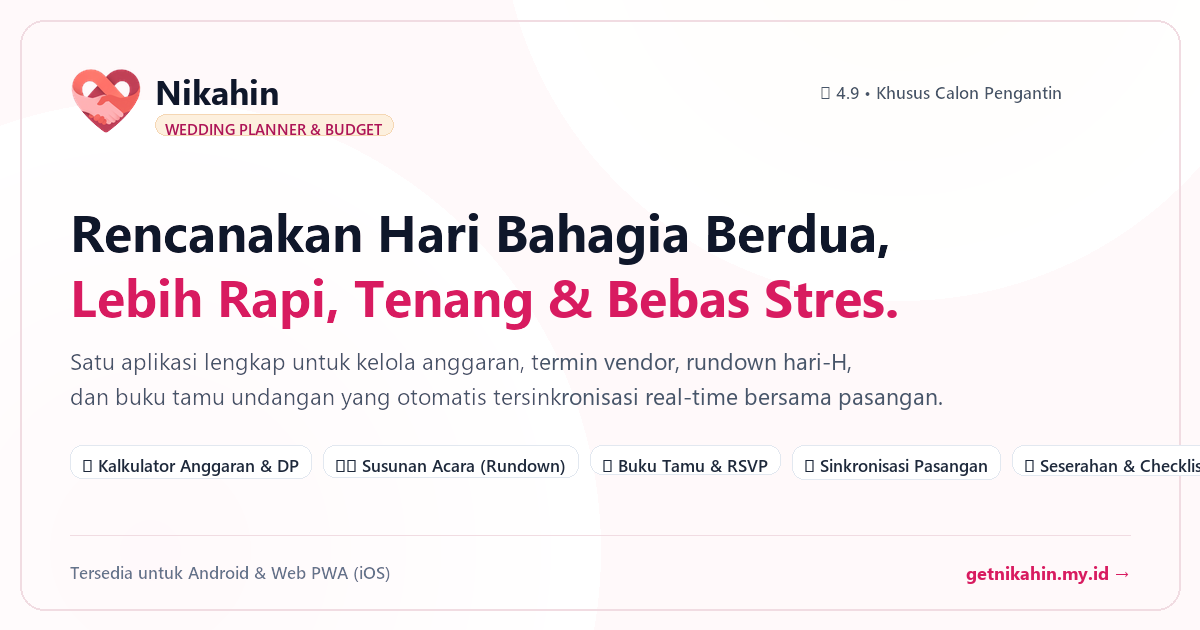
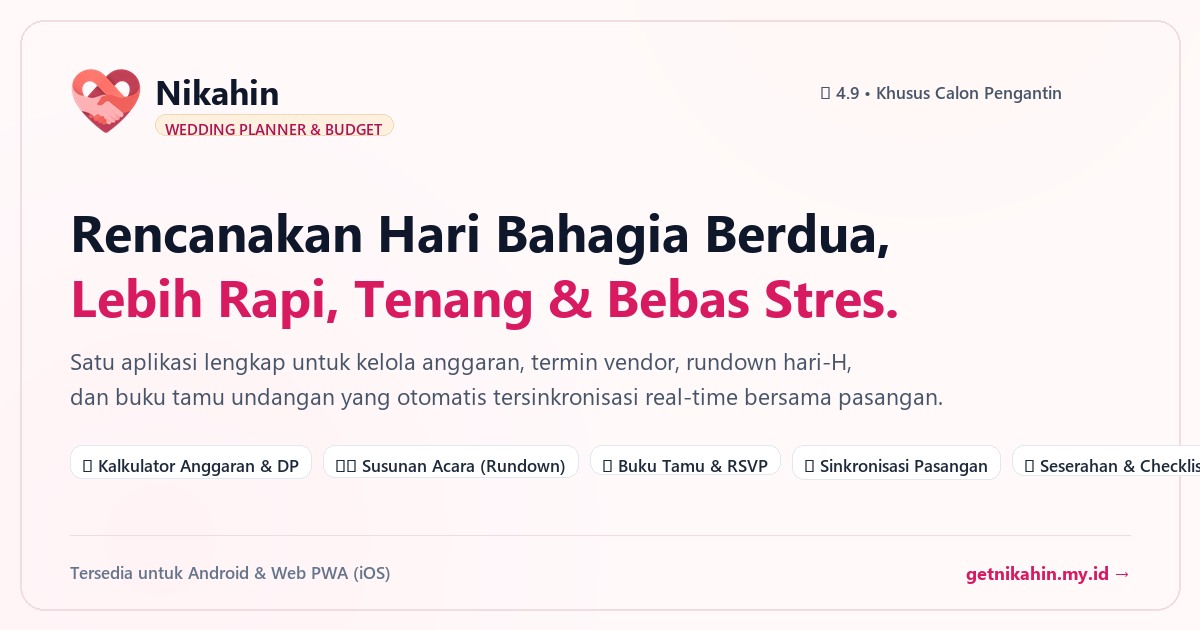
fix(landing): use solid RGB background for og-image and harmonize modal text alignment

diff --git a/landing-page/components/DesktopQrModal.tsx b/landing-page/components/DesktopQrModal.tsx
@@ -16,7 +16,7 @@ export default function DesktopQrModal({ isOpen, onClose, targetUrl }: DesktopQr
   return (
     <div className="fixed inset-0 z-50 flex items-center justify-center p-4 bg-slate-900/60 backdrop-blur-sm animate-in fade-in duration-200">
       <div
-        className="relative w-full max-w-sm bg-white rounded-3xl p-6 sm:p-7 shadow-2xl border border-slate-100 text-center"
+        className="relative w-full max-w-sm bg-white rounded-3xl p-6 sm:p-7 shadow-2xl border border-slate-100"
         onClick={(e) => e.stopPropagation()}
       >
         {/* Close Button */}
@@ -29,34 +29,37 @@ export default function DesktopQrModal({ isOpen, onClose, targetUrl }: DesktopQr
         </button>
 
         {/* Modal Header */}
-        <div className="w-12 h-12 rounded-2xl bg-[#fdf0de] mx-auto flex items-center justify-center text-[#d81b60] mb-4">
-          <QrCode className="w-6 h-6" />
+        <div className="flex items-center gap-3.5 mb-5 pr-8">
+          <div className="w-11 h-11 rounded-2xl bg-[#fdf0de] flex items-center justify-center text-[#d81b60] shrink-0">
+            <QrCode className="w-6 h-6" />
+          </div>
+          <div>
+            <h3 className="font-extrabold text-lg text-slate-900 leading-snug">
+              Buka di Ponselmu
+            </h3>
+            <p className="text-xs text-slate-500 font-medium mt-0.5 text-justify">
+              Arahkan kamera ponsel ke kode QR untuk membuka aplikasi langsung di HP kamu.
+            </p>
+          </div>
         </div>
 
-        <h3 className="font-extrabold text-lg text-slate-900 mb-1">
-          Buka di Ponselmu
-        </h3>
-        <p className="text-xs text-slate-500 font-medium mb-6">
-          Arahkan kamera ponsel ke kode QR untuk membuka aplikasi langsung di HP kamu.
-        </p>
-
         {/* QR Code Frame */}
-        <div className="p-4 bg-white rounded-2xl border-2 border-dashed border-[#ffd9e2] inline-block shadow-inner mb-5">
-          <QRCodeSVG
-            value={targetUrl}
-            size={180}
-            level="M"
-            includeMargin={true}
-            fgColor="#0f172a"
-          />
+        <div className="flex justify-center mb-5">
+          <div className="p-4 bg-white rounded-2xl border-2 border-dashed border-[#ffd9e2] shadow-inner">
+            <QRCodeSVG
+              value={targetUrl}
+              size={180}
+              level="M"
+              includeMargin={true}
+              fgColor="#0f172a"
+            />
+          </div>
         </div>
 
         {/* Device Notes */}
-        <div className="flex items-center justify-center gap-4 text-xs font-semibold text-slate-600">
-          <span className="flex items-center gap-1.5">
-            <Smartphone className="w-4 h-4 text-[#d81b60]" />
-            Tersedia untuk Android & iPhone
-          </span>
+        <div className="flex items-center justify-center gap-2 text-xs font-semibold text-slate-600">
+          <Smartphone className="w-4 h-4 text-[#d81b60]" />
+          <span>Tersedia untuk Android & iPhone</span>
         </div>
       </div>
     </div>

diff --git a/landing-page/components/IosInstallModal.tsx b/landing-page/components/IosInstallModal.tsx
@@ -29,15 +29,15 @@ export default function IosInstallModal({ isOpen, onClose, appUrl }: IosInstallM
         </button>
 
         {/* Modal Header */}
-        <div className="flex items-center gap-3.5 mb-5">
-          <div className="w-11 h-11 rounded-2xl bg-[#fdf0de] flex items-center justify-center text-[#d81b60]">
+        <div className="flex items-center gap-3.5 mb-5 pr-8">
+          <div className="w-11 h-11 rounded-2xl bg-[#fdf0de] flex items-center justify-center text-[#d81b60] shrink-0">
             <Smartphone className="w-6 h-6" />
           </div>
           <div>
-            <h3 className="font-extrabold text-lg text-slate-900">
+            <h3 className="font-extrabold text-lg text-slate-900 leading-snug">
               Pasang Nikahin di iPhone
             </h3>
-            <p className="text-xs text-slate-500 font-medium text-justify">
+            <p className="text-xs text-slate-500 font-medium mt-0.5 text-justify">
               Cukup buka di Safari dan tambahkan ke layar utama, tanpa repot lewat App Store
             </p>
           </div>
@@ -105,7 +105,7 @@ export default function IosInstallModal({ isOpen, onClose, appUrl }: IosInstallM
             <span>Buka Aplikasi di Safari</span>
             <ExternalLink className="w-4 h-4" />
           </a>
-          <p className="text-center text-[11px] text-slate-400 mt-2.5">
+          <p className="text-left text-[11px] text-slate-400 mt-2.5 leading-relaxed text-justify">
             Aplikasi otomatis terbuka layar penuh seperti aplikasi biasa.
           </p>
         </div>

diff --git a/landing-page/components/DeviceCta.tsx b/landing-page/components/DeviceCta.tsx
@@ -113,7 +113,10 @@ export default function DeviceCta({
               <a
                 href={downloadHref}
                 download="nikahin.apk"
-                onClick={() => trackDownloadClick('android', { source: 'desktop_download_apk' })}
+                onClick={() => {
+                  trackDownloadClick('android', { source: 'desktop_download_apk' });
+                  setAndroidModalOpen(true);
+                }}
                 className="w-full sm:w-auto inline-flex items-center justify-center gap-2.5 px-7 py-4 rounded-2xl bg-[#d81b60] hover:bg-[#c2185b] text-white font-extrabold text-base shadow-lg shadow-[#d81b60]/25 hover:shadow-xl hover:shadow-[#d81b60]/35 hover:-translate-y-0.5 transition-all"
               >
                 <Download className="w-5 h-5" />

diff --git a/landing-page/components/AndroidInstallModal.tsx b/landing-page/components/AndroidInstallModal.tsx
@@ -119,7 +119,7 @@ export default function AndroidInstallModal({
           <a
             href={downloadUrl}
             download="nikahin.apk"
-            className="text-center text-xs font-medium text-slate-500 hover:text-[#d81b60] transition-colors py-1.5"
+            className="text-left text-xs font-medium text-slate-500 hover:text-[#d81b60] transition-colors py-1"
           >
             Unduhan belum mulai? <span className="font-bold underline">Klik di sini untuk mengunduh ulang</span>
           </a>
